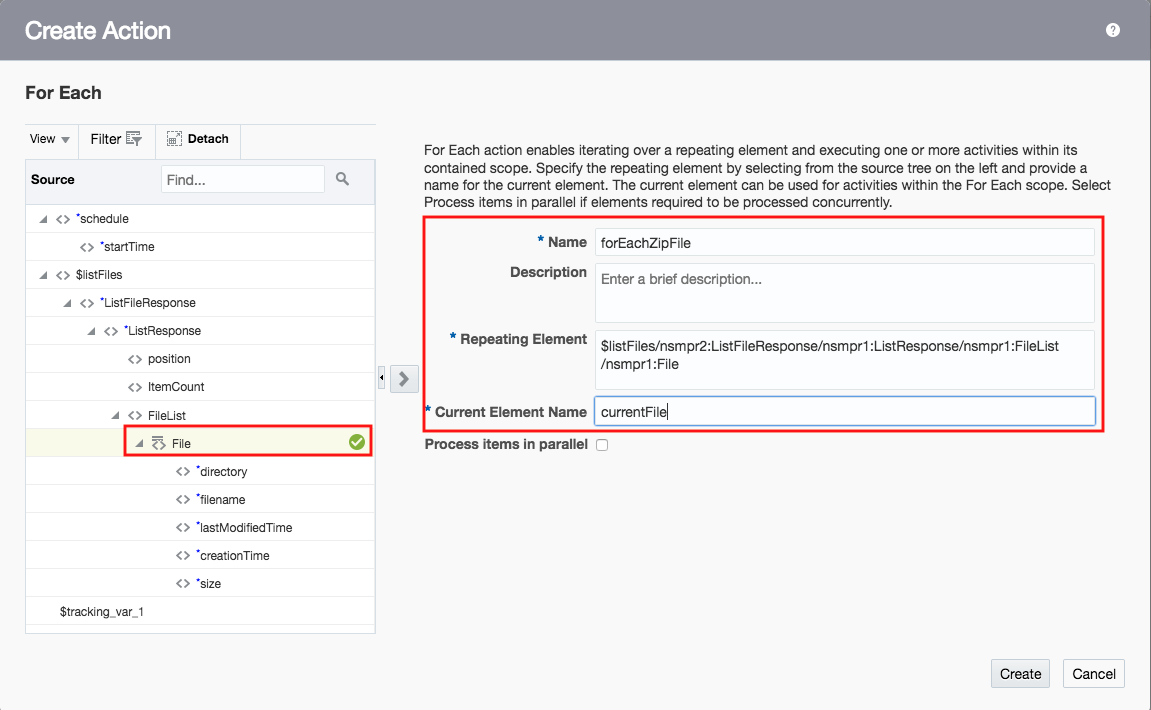
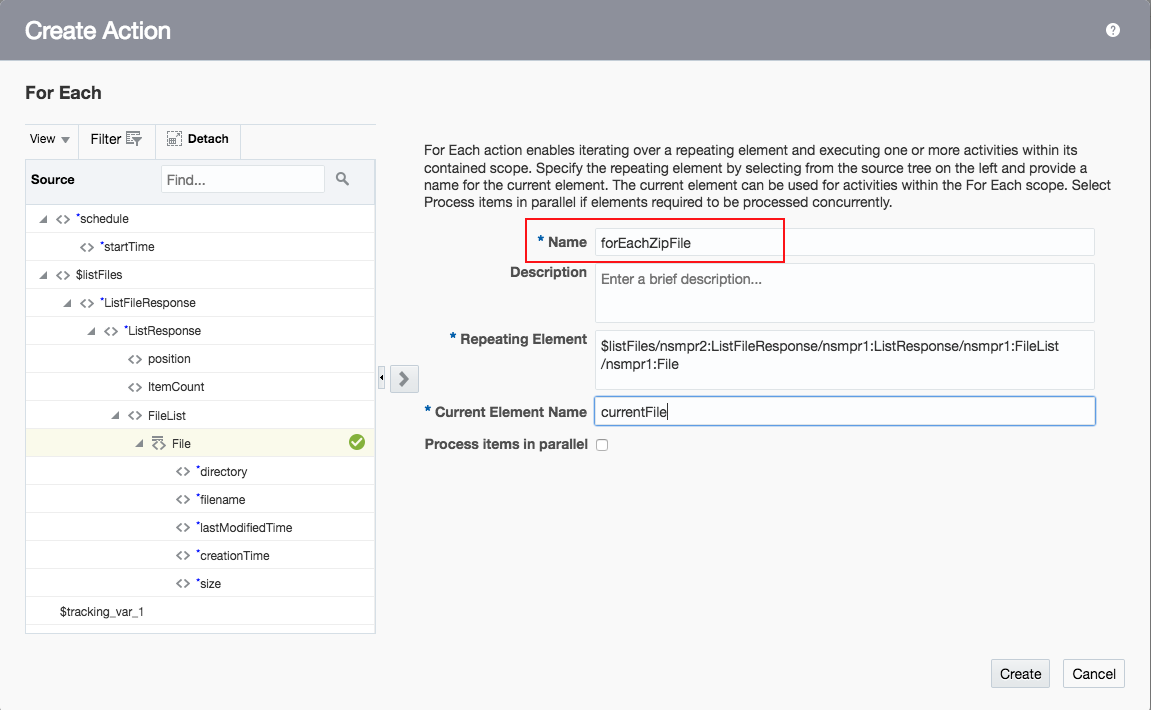
1.5.5

Changed region(s): [[0.3649, 0.2789, 0.9731, 0.6197], [0.0912, 0.5887, 0.3345, 0.6507], [0.4561, 0.3408, 0.4865, 0.3718]]

diff --git a/ics600.md b/ics600.md
@@ -155,7 +155,7 @@ You should see a blue plus sign appear on the arrow indicating where you should 
 ![forEach](images/600/image629.png)
 
 #### 1.5.5: **_Provide Current Element Name_** and click **_Create_**
-![forEach](images/600/image628.png)
+![forEach](images/600/image628a.png)
 
 
 **_NOTE_**: Save your integration.
